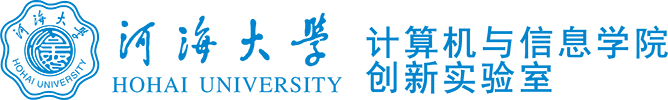
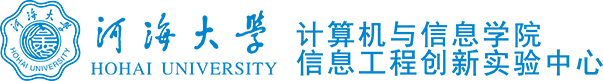
首页的初步结构

diff --git a/app/assets/stylesheets/cxpt/index.css.scss b/app/assets/stylesheets/cxpt/index.css.scss
@@ -1,3 +1,132 @@
-// Place all the styles related to the Cxpt::index controller here.
-// They will automatically be included in application.css.
-// You can use Sass (SCSS) here: http://sass-lang.com/
+@import 'mixins.scss';
+.news-flow{
+  overflow: hidden;
+  .lunbo{
+    padding-right: 0px;
+    img{
+      height: 272px;
+    }
+  }
+  .news-list{
+    padding-left: 0px;
+    background-color: #FFF;
+    border-top-right-radius: 5px;
+    border-bottom-right-radius: 5px;
+    ul{
+      padding-left: 0px;
+      li{
+        list-style: none;
+        text-align: left;
+        padding: 20px 30px;
+        background-color: #FFF;
+        border-bottom: 1px solid #EEE;
+        cursor: pointer;
+        // height: 40px;
+        // word-break: break-all;
+        .fixed_box{
+          height: 20px;
+          overflow: hidden;
+          width: 210px;
+
+        }
+        &:hover,&.active{
+          background-color: #27ae60;
+          color:#FFF;
+        }
+        &:first-child{
+          border-top-right-radius: 5px;
+        }
+        &:last-child{
+          border-bottom-right-radius: 5px;
+        }
+      }
+
+    }
+  }
+}
+
+
+.box-table{
+  td{
+    img{
+      margin-right: 5px;
+    }
+    &:nth-child(2){
+      color:#888;
+      text-align: right;
+      
+      vertical-align: middle;
+    }
+    a{
+      word-wrap: break-word;
+      word-break: break-all;
+      color:#000;
+      background-image: image-url("cxpt/list.png");
+      background-repeat: no-repeat;
+      padding-left: 14px;
+      background-position: 0px 7px;
+      &:hover{
+        text-decoration: none;
+        color:#27ae60;
+      }
+    }
+  }
+  tr{
+    &:first-child td{
+      border-top: 0px;
+    }
+  }
+  margin-bottom: 0px;
+}
+
+div.list-item-box{
+  div.header{
+    height: 32px;
+  }
+  div.list{
+    width: 100%;
+    // max-height: 277px;
+    min-height: 100px;
+    overflow: hidden;
+    .fixed_box{
+      height: 20px;
+      overflow: hidden;
+    }
+  }
+  .title,.more{
+    a:hover{
+      text-decoration: none;
+
+    }
+    height: 32px;
+    margin-bottom: 5px;
+  }
+  .title{
+    font-family: $font-family;
+    font-size: 20px;
+    border-bottom: 3px solid lighten($color_primary,25%);
+    color:lighten($color_primary,25%);
+    width: 30%;
+    float: left;
+    letter-spacing: 4px;
+    // text-align: center;
+    a:hover{
+      color:$color_primary;
+    }
+    
+  }
+  .more{
+    text-align: right;
+    width: 70%;
+    border-bottom: 3px solid lighten($color_primary,60%);
+    float: right;
+    padding-top: 5px;
+    a{
+      color:#000;
+      &:hover{
+        color:$color_primary;
+      }
+    }
+  }
+  
+}

diff --git a/app/assets/stylesheets/cxpt.css.scss b/app/assets/stylesheets/cxpt.css.scss
@@ -1,9 +1,6 @@
-$color_base_bg:#F7F7F7; //18%灰
-$color_primary:#428bca;
-
-$nav-bg-color: #2d608c;
+@import 'cxpt/mixins.scss';
 body{
-  background-color: $color_base_bg;
+  background-image: image-url('cxpt/global_bg.gif');
   color:#333;
   min-width: 700px;
   margin: 0;
@@ -23,7 +20,7 @@ a:hover{
   display: block;
   margin-bottom: 10px;
   .logo img{
-    height: 100px;
+    height: 81px;
     margin: 15px 0px;
   }
 }
@@ -51,6 +48,7 @@ a:hover{
         position: absolute;
         display: none;
         background-color: $nav-bg-color;
+        z-index: 999;
       }
       div.child a{
 
@@ -64,7 +62,21 @@ a:hover{
   }
 }
 
-#main{
+#main-container{
   background-color: #fff;
   margin-top: 20px;
+  border-radius: 5px;
+  padding:20px;
+}
+#main{
+  min-height: 500px;
+  margin-bottom: 20px;
+  padding-bottom: 20px;
+  padding-right: 15px;
+}
+div.aside{
+  min-height: 500px;
+  padding-bottom: 10px;
+  border-right: 1px solid #E4E4E4;
+
 }

diff --git a/app/assets/javascripts/cxpt/index.js b/app/assets/javascripts/cxpt/index.js
@@ -1,0 +1,17 @@
+//= require bootstrap
+(function() {
+  $('#carousel').on('slide.bs.carousel', function(prop) {
+    var id;
+    id = $(prop.relatedTarget).attr("data-id");
+    $('#news-list-ul li').removeClass("active");
+    return $("#news-list-ul li[data-id=" + id + "]").addClass("active");
+  });
+
+  $('#news-list-ul li').click(function() {
+    var id;
+    id = $(this).attr("data-id");
+    $('#carousel').carousel(parseInt(id));
+    $('#news-list-ul li').removeClass("active");
+    return $(this).addClass("active");
+  });
+}).call(this);

diff --git a/app/assets/stylesheets/manage/mixins.scss b/app/assets/stylesheets/manage/mixins.scss
@@ -23,10 +23,10 @@ $brand-danger:            #d9534f;
 $brand-info:              #5bc0de;
 
 // Sidebar colors
-$sidebar-background:        #F1F1F1;
+$sidebar-background:        lighten(#50b89f,40%);
 //$sidebar-background:        #273135;
 // $sidebar-text-color:        #000;
-$sidebar-text-color:        #767676;
+$sidebar-text-color:        #3d3d3d;
 $sidebar-active-background: #50B89F;
 $sidebar-header-color:      rgb(58,58,58);
 // $sidebar-header-color:      rgba(137,148,155,.4);

diff --git a/app/assets/stylesheets/manage/main_frame.css.scss b/app/assets/stylesheets/manage/main_frame.css.scss
@@ -31,6 +31,7 @@ a,button{
 
 }
 .navbar{
+	z-index: 1500;
 	position: fixed;
 	right: 0;
 	left: 0;
@@ -278,11 +279,12 @@ a,button{
 }//.navbar end
 
 .sidebar{
-	float:left;
+	z-index: 1000;
 	width: $sidebar-width;
 	background: $sidebar-background;
 	overflow: hidden;
 	position:fixed;
+	height: 100%;
 	color: $sidebar-text-color;
 	@include box-sizing(border-box);
 	@include transition(all .3s ease);

diff --git a/app/assets/stylesheets/cxpt/mixins.scss b/app/assets/stylesheets/cxpt/mixins.scss
@@ -1,0 +1,5 @@
+$font-family:       "Hiragino Sans GB", "Microsoft YaHei","WenQuanYi Micro Hei";
+$color_base_bg:#F7F7F7; //18%灰
+$color_primary:#27ae60;
+
+$nav-bg-color: #27ae60;

diff --git a/app/models/cxpt/mnews.rb b/app/models/cxpt/mnews.rb
@@ -38,4 +38,10 @@ class Cxpt::Mnews < ActiveRecord::Base
       x.content = ''
     end
   end
+
+  def self.news_with_cover
+    image_cates = Cxpt::Cate.where(display: 'image').select(:id).load
+    image_cate_ids = image_cates.collect {|x| x.id}
+    self.where('is_draft = 0 and publish_at < ?',Time.now).where(cxpt_cate_id: image_cate_ids).order(publish_at: :desc)
+  end
 end

diff --git a/app/controllers/cxpt/index_controller.rb b/app/controllers/cxpt/index_controller.rb
@@ -1,5 +1,6 @@
 class Cxpt::IndexController < CxptController
   def index
     @nav = YAML.load(File.read("config/exts/cxpt_nav.yml"))
+    @news_with_cover = Cxpt::Mnews.news_with_cover.limit(5).select(:id,:title,:cover)
   end
 end
